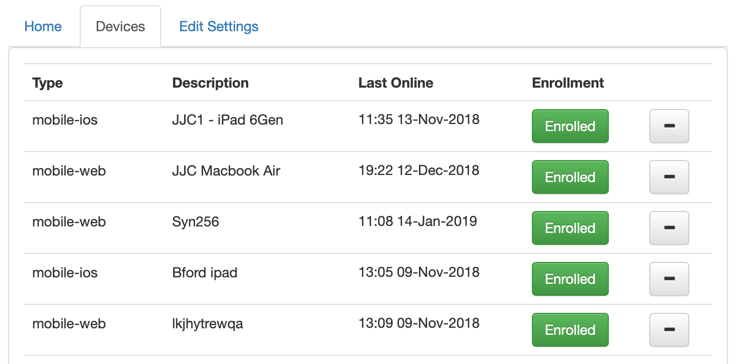
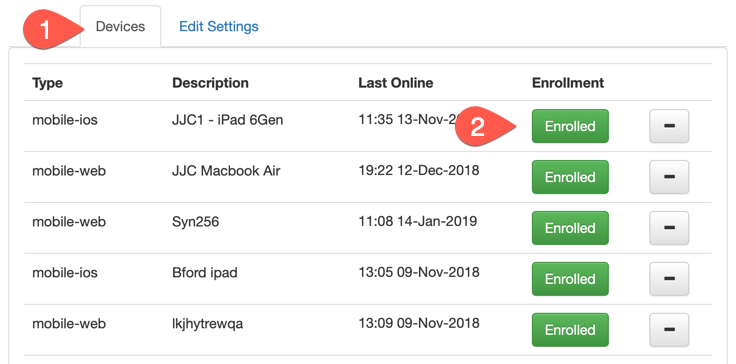
NZWNA-158 Updated documents

Changed region(s): [[0.5938, 0.272, 0.7188, 0.4231], [0.0312, 0.0302, 0.125, 0.1511]]

diff --git a/peek_core_device/admin-doc/admin_tasks/admin_tasks.rst b/peek_core_device/admin-doc/admin_tasks/admin_tasks.rst
@@ -9,15 +9,14 @@ Enrolling Devices
 The enrolled devices are displayed to the administrator via the admin UI.
 To remove, enroll or unenroll devices, follow this procedure:
 
+Open the Peek Admin UI and navigate to the Device plugin.
+
 ----
 
-#.  Open the Peek Admin UI and navigate to the Device plugin.
-
-#.  Click on the **Device** tab
+#.  Click on the **Device** tab.
 
 #.  Toggle the **Enrollment** button.
 
-#.  Click save.
 
 .. image:: admin_task_devices.png
 
@@ -25,3 +24,7 @@ To remove, enroll or unenroll devices, follow this procedure:
 
 The user will see their device toggle from the "Waiting for enrollment" to the Peek
 home screen.
+
+Deleting Devices
+````````````````
+To delete a device, click the subtract icon to the right of Enrollment Status.

diff --git a/peek_core_device/admin-doc/general_settings/general_settings.rst b/peek_core_device/admin-doc/general_settings/general_settings.rst
@@ -5,8 +5,9 @@ General Settings
 
 Configure the General Settings to configure the device plugin.
 
-:Device Auto Enrolment: When new devices connect to the Peek server, Peek will mark them
-    as enrolled automatically.
+:Field Enrollment Enabled: Devices will enroll for the Field Service.
+
+:Office Enrollemt Enabled: Devices will enroll for the Office Service.
 
 .. image:: general_settings.png
 
